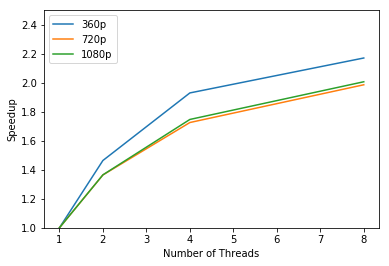
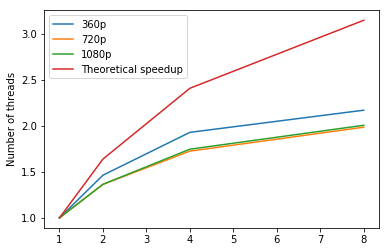
add plots

diff --git a/performance.html b/performance.html
@@ -97,7 +97,8 @@
 
     <p>(Since testing on video is really time consuming, we only test with OMP_NUM_THREADS=4 as this performs best on m4.2xlarge node for 2 images)</p>
 
-    <p>The following plot shows the speedup for DeepFlow between <b>two images</b>. The left one is the speedup plot for m4.2xlarge node, the right one is replacing the 8-thread result by the 8-thread result on m4.4xlarge (taking out the hyper-threading factor). <b>The right plot should represent the general trend</b>.</p>
+    <p>The following plot shows the speedup for DeepFlow between <b>two images</b>. The left one is the speedup plot for m4.2xlarge node, the right one is replacing the 8-thread result by the 8-thread result on m4.4xlarge (taking out the hyper-threading factor). <b>The right plot should represent the general trend</b>.
+    The red line represents the maximum theoretical speedup assuming there are no overheads.</p>
 
     <figure style="clear:both">
             <img src="img/omp_org.png" alt="omp-org" width="330" style='margin-left:5px'>
@@ -123,9 +124,16 @@
         <tr><td>MPI with 8 threads</td><td>3.339 seconds</td><td>14.570 seconds</td><td>22.869 seconds</td></tr>
         <tr><td>MPI with 16 threads</td><td>4.457 seconds</td><td>14.616 seconds</td><td>32.863 seconds</td></tr>
     </table>
-    <p>We implement MPI and run our model on 2 instances, i.e 2 CPUs, and the maximum number of threads now is 16, since each m4.2xlarge provides 8 threads. But since m4.2xlarge only provides 4 actual core, the performance of MPI with 16 threads is worse than one with 8 threads, which agrees with the result of previous OpenMP.
+    <p>We implement MPI and run our model on 2 instances, i.e 2 CPUs, and the maximum number of threads now is 16, since each m4.2xlarge provides 8 threads. But since m4.2xlarge only provides 4 actual core, the performance of MPI with 16 threads is worse than one with 8 threads, which agrees with the result of previous OpenMP. The speedup plot is shown below.
+
+
+        <figure style="clear:both">
+            <img src="img/mpi_speedup.png" alt="omp-video" width="660">
+        </figure>
     <p>Although performance increases with the number of threads, MPI still works really bad, even worse than serial programming, which is no surprise, since messages passing between nodes are huge and frequent due to frequent call of Red-Black SOR, so that overhead is pretty large. Notice that we are not dealing with a single matrix and perform Red-Black SOR on it. Instead, we are dealing with multiple matrices with different sizes, so that every time we call Red-Black SOR, we need to reassign jobs to different nodes and those nodes send and receive messages, and that is how overhead accumulates.
-           
+
+
+
     <hr />
     <h2 class='entry-title'>MPI+OpenMP (on 3 CPUs)</h2>
     <table style="border: 1px solid black;text-align:center">
